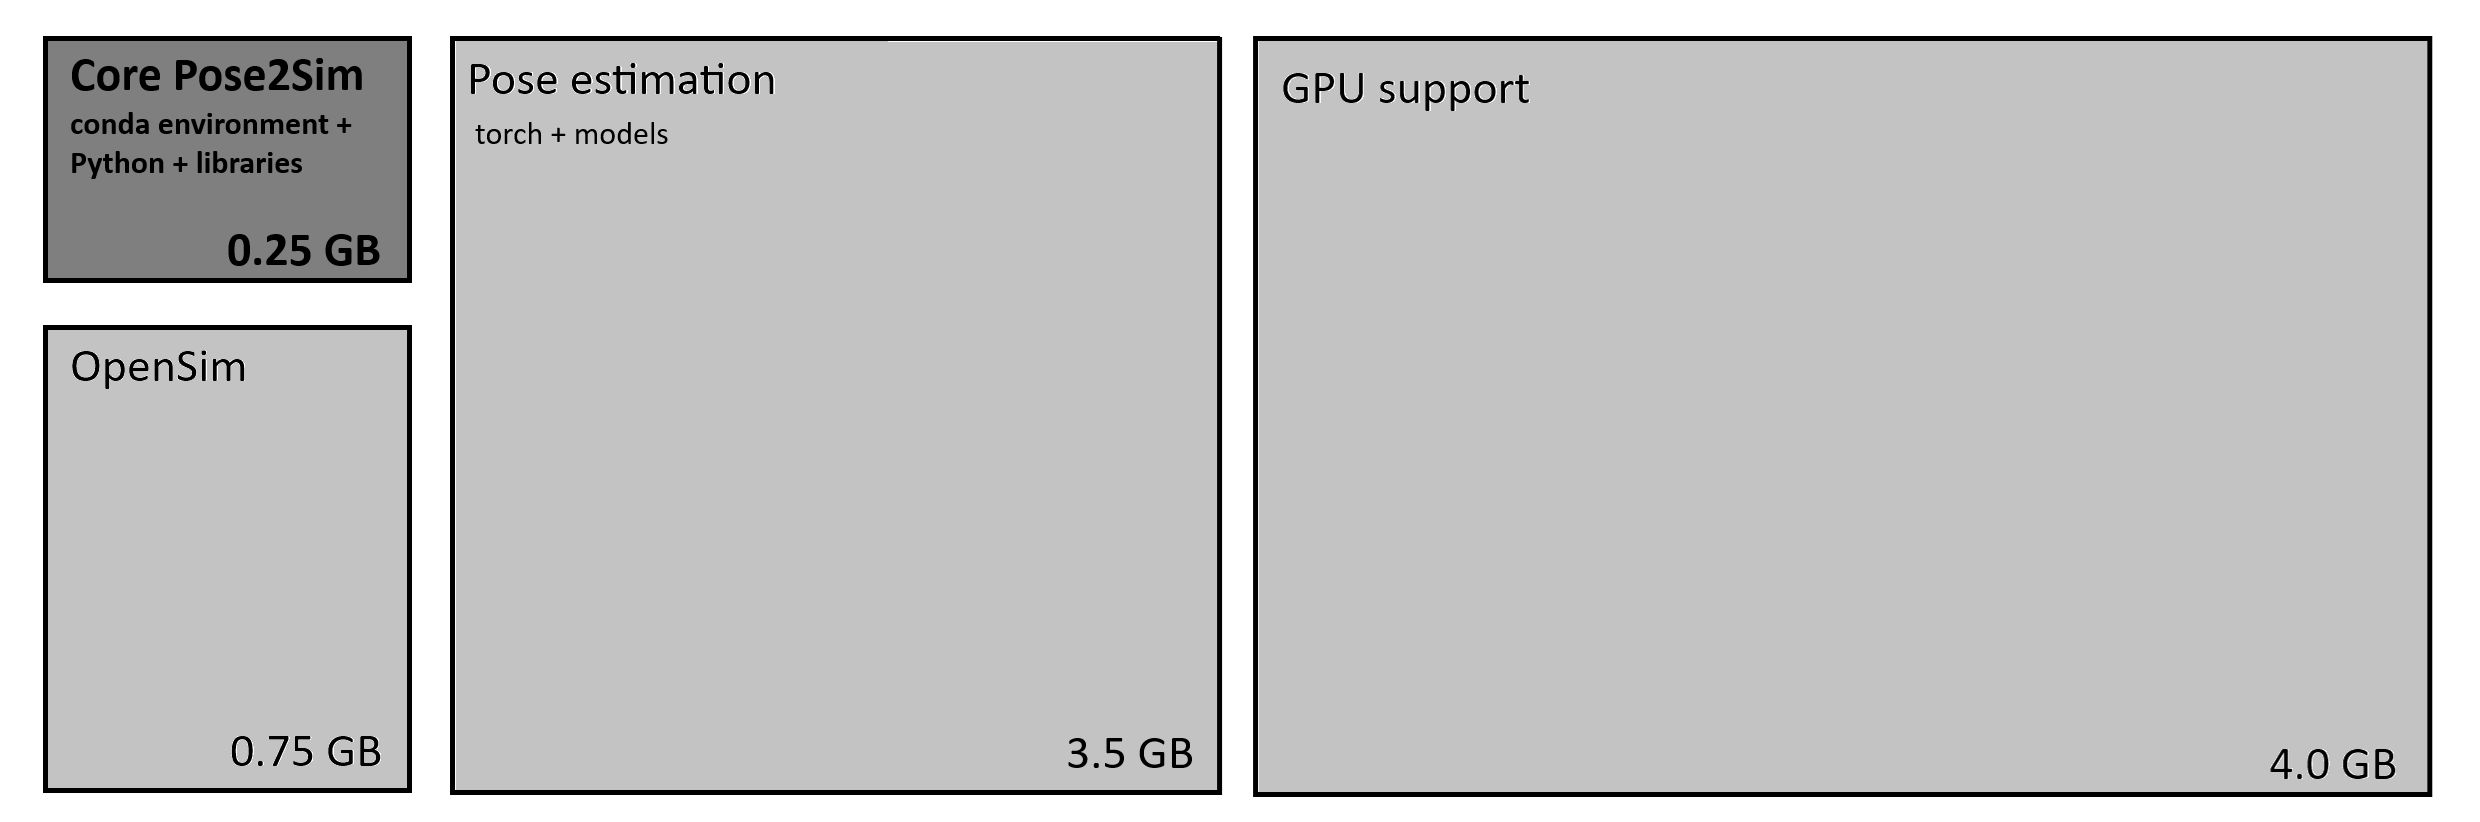
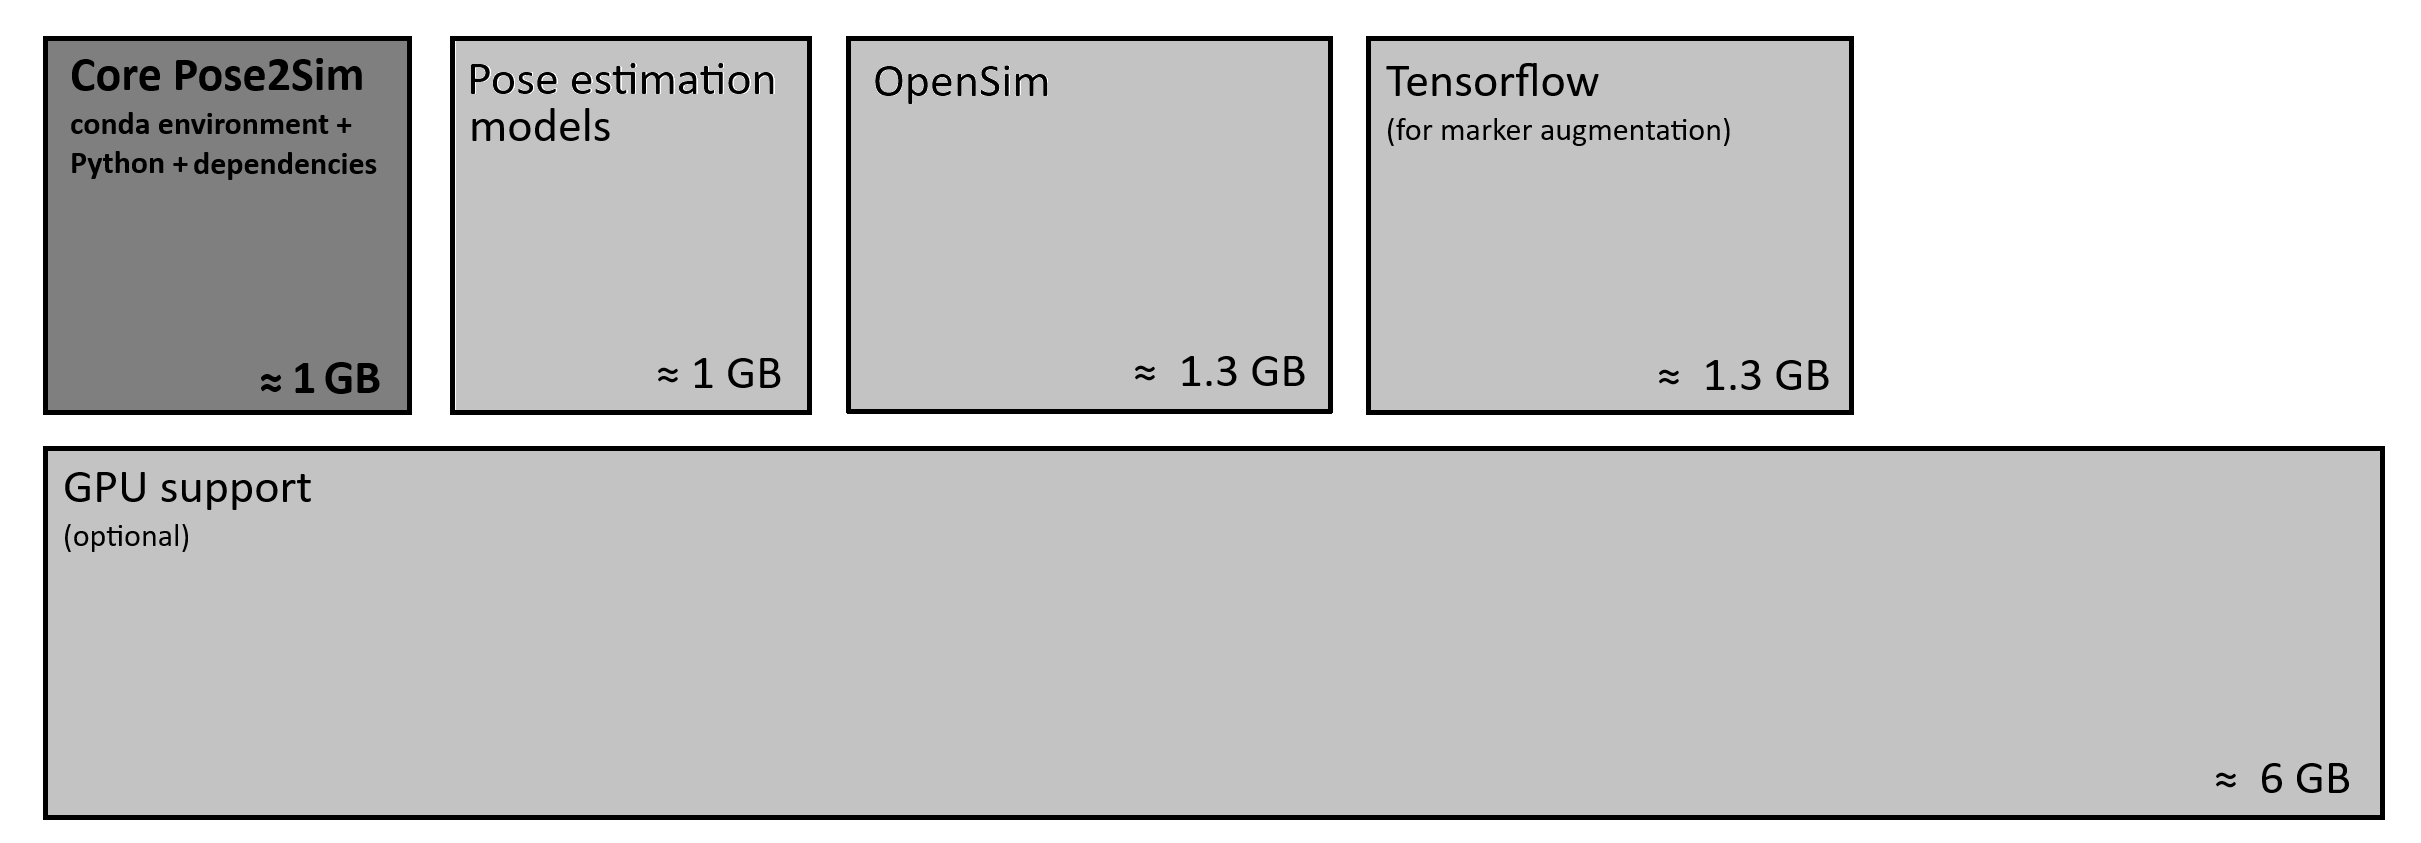
Not on storage use

Changed region(s): [[0.0, 0.0304, 0.9913, 0.9732]]

diff --git a/README.md b/README.md
@@ -128,7 +128,8 @@ If you don't use Anaconda, type `python -V` in terminal to make sure python>=3.9
        ```
 
 4. ***Optional:***\
-   *For faster inference, you can run on the GPU. Install pyTorch with CUDA and cuDNN support, and ONNX Runtime with GPU support (not available on MacOS). Be aware that it takes an additional 4 GB on disk.*
+   *For faster inference, you can run on the GPU. Install pyTorch with CUDA and cuDNN support, and ONNX Runtime with GPU support (not available on MacOS).*\
+   Be aware that GPU support takes an additional 6 GB on disk. The full installation is then 10.75 GB instead of 4.75 GB.
    
    Go to the [ONNXruntime requirement page](https://onnxruntime.ai/docs/execution-providers/CUDA-ExecutionProvider.html#requirements), check the latest CUDA and cuDNN requirements. Then go to the [pyTorch website]( https://pytorch.org/get-started/locally) and install the latest version that satisfies these requirements (beware that torch 2.4 ships with cuDNN 9, while torch 2.3 installs cuDNN 8). For example:
    ``` cmd
@@ -145,8 +146,10 @@ If you don't use Anaconda, type `python -V` in terminal to make sure python>=3.9
    pip install onnxruntime-gpu
    ```
 
-  > Note on storage use:\
-     <img src="Content/Storage.png" width="760">
+> **Note on storage use:**\
+     [Marker augmentation](#marker-augmentation) does not necessarily yield better results, and it requires Tensorflow. You can save 1.3 GB on disk by uninstalling it: `pip uninstall tensorflow`.\
+     A minimal installation with carefully chosen pose models and without GPU support, Tensorflow, PyQt5 **would take less than 3 GB**.
+    <img src="Content/Storage.png" width="760">
 
 
   <!-- import torch; print(torch.cuda.is_available()) 
